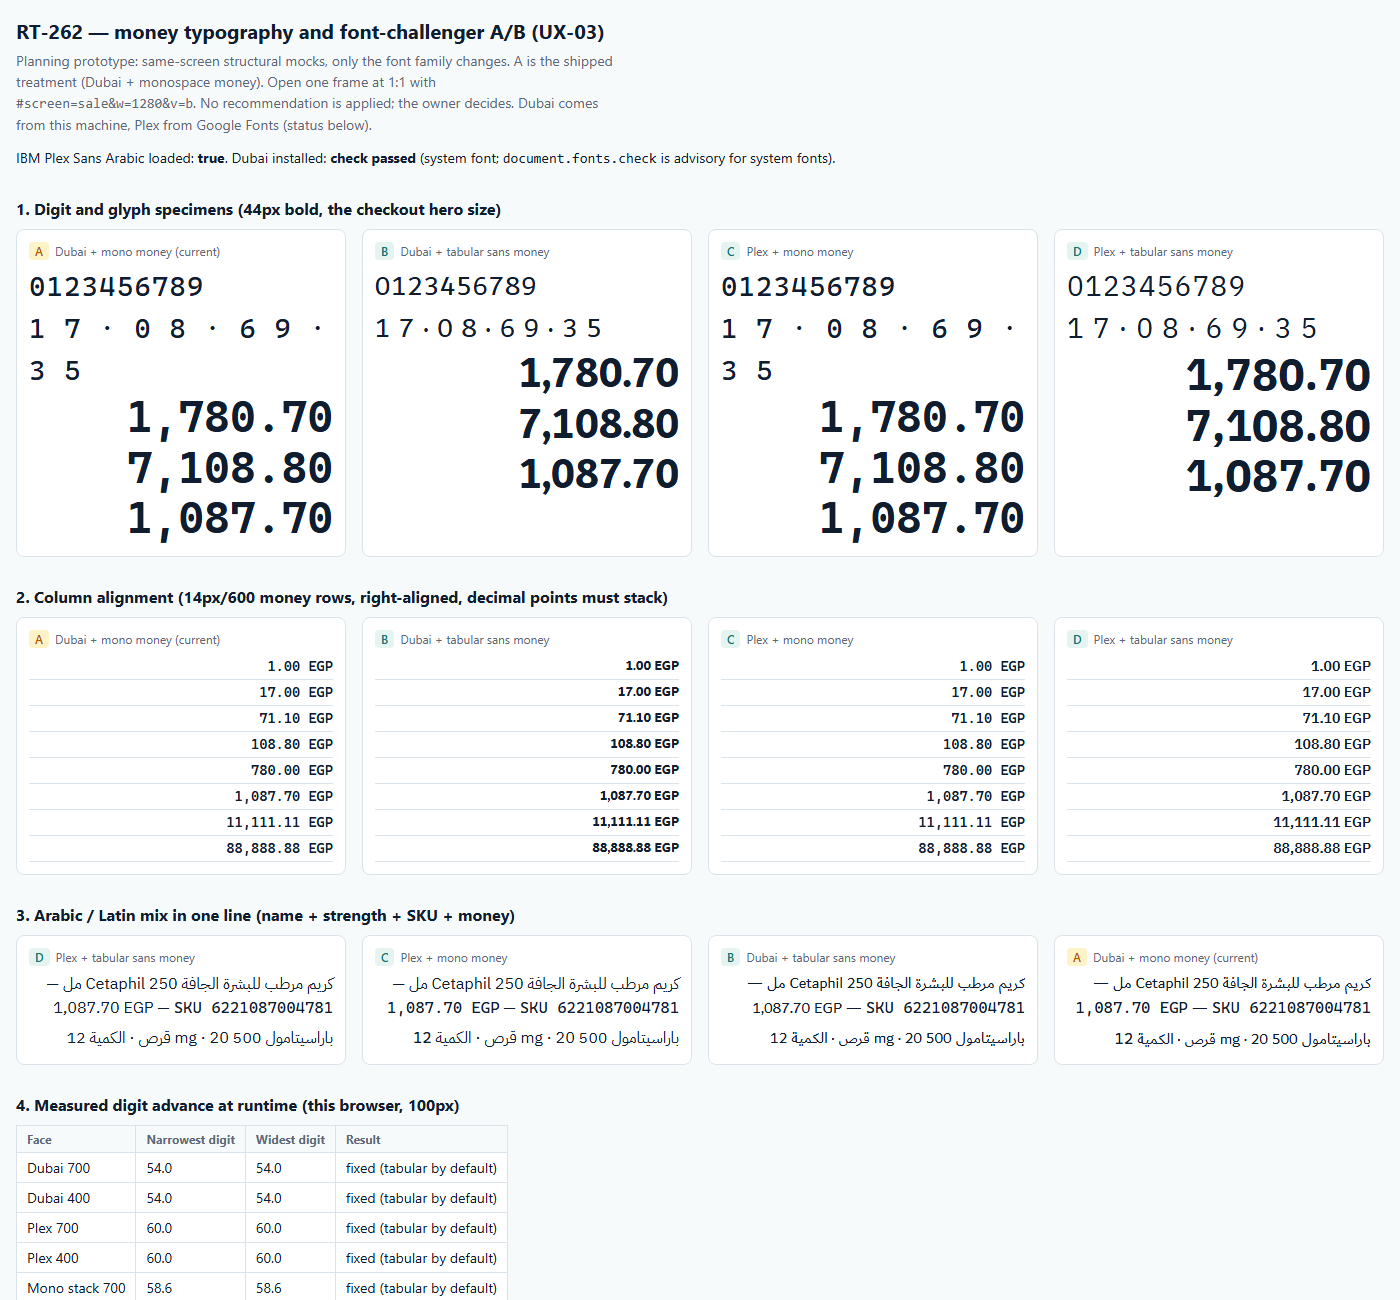
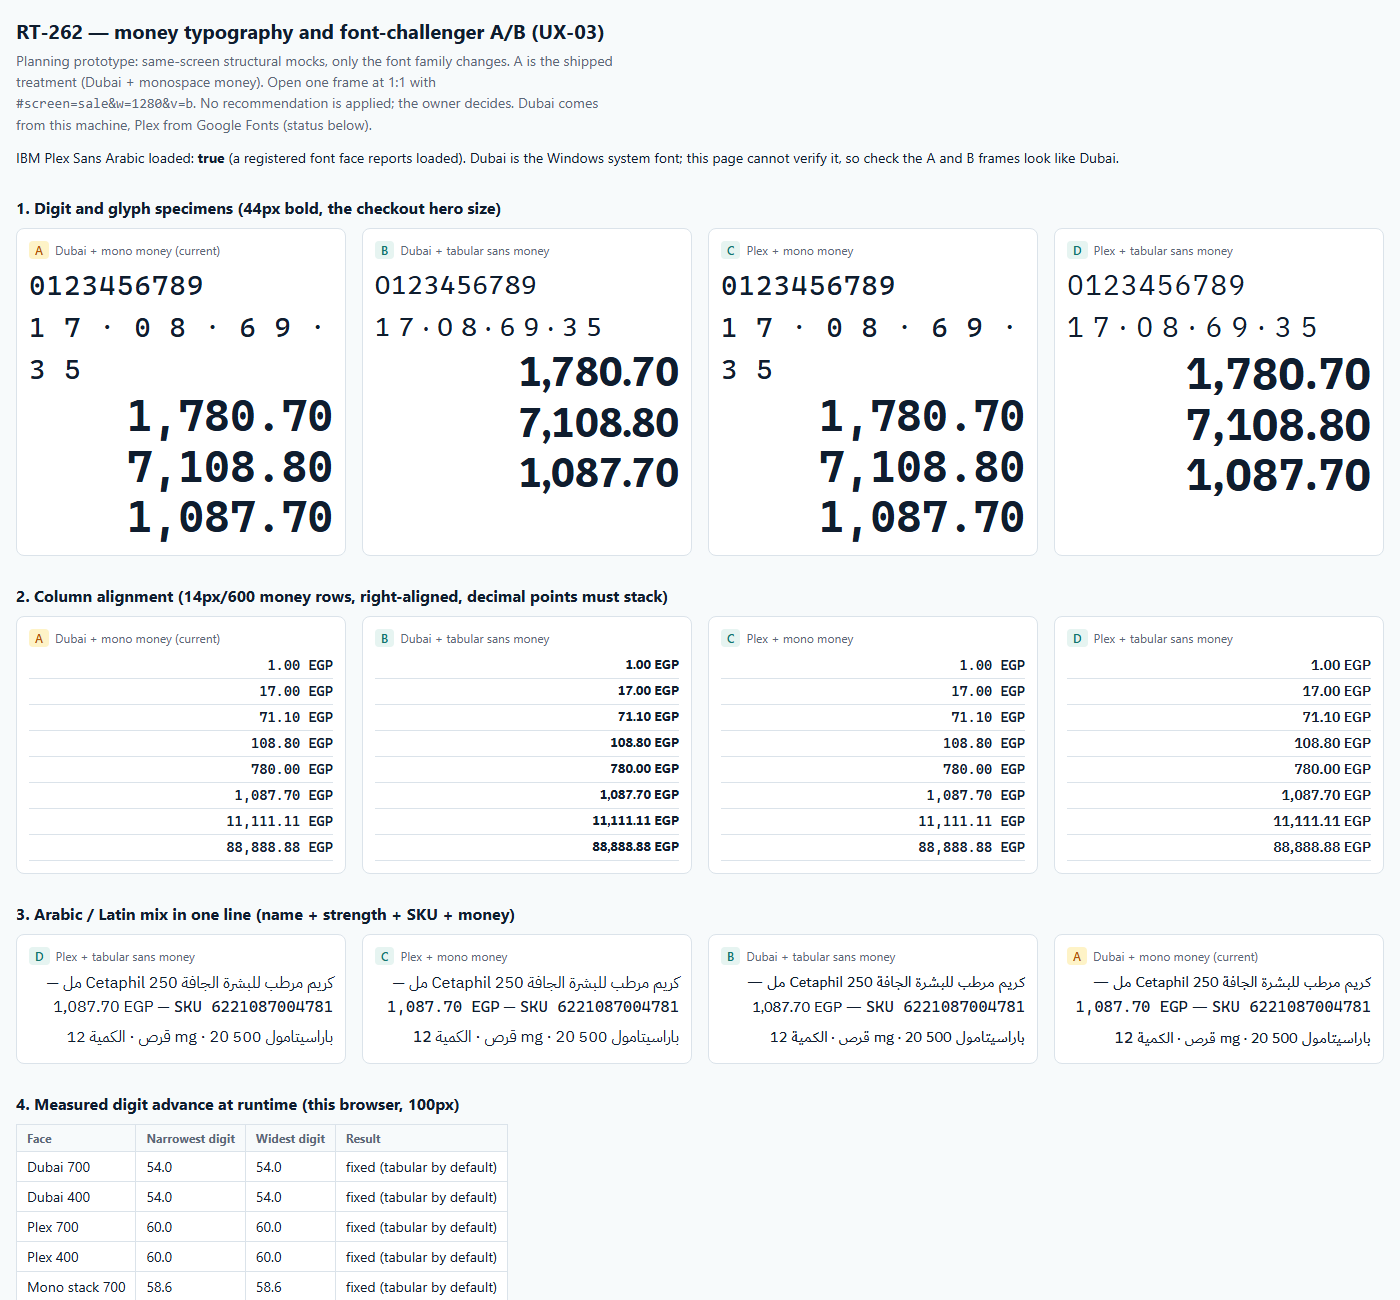
docs(RT-262): detect a really loaded Plex face and flag offline fallback
Frames C/D and the overview now check for a registered, loaded FontFace
(document.fonts.check is true for unknown families) and show a red banner
or a NOT LOADED marker when Plex fell back to Segoe UI.

diff --git a/docs/design/vnext/30-rt262-money-typography-ab.html b/docs/design/vnext/30-rt262-money-typography-ab.html
@@ -153,12 +153,30 @@ function frame(screen, w, v, scale) {
 }
 function el(h) { return h; }
 
+/* True only when a registered FontFace for Plex has really loaded (document.fonts.check is true for unknown families). */
+function plexLoaded() {
+  var ok = false;
+  document.fonts.forEach(function (f) { if (f.family.replace(/['"]/g, '') === 'IBM Plex Sans Arabic' && f.status === 'loaded') ok = true; });
+  return ok;
+}
+function loadPlex() {
+  return Promise.all([document.fonts.load("400 44px 'IBM Plex Sans Arabic'", '0123456789'), document.fonts.load("700 44px 'IBM Plex Sans Arabic'", '0123456789')]).catch(function () {});
+}
 var hash = {}; location.hash.replace(/^#/, '').split('&').forEach(function (p) { var kv = p.split('='); if (kv[0]) hash[kv[0]] = kv[1]; });
 var app = document.getElementById('app');
 
 if (hash.screen) {
   document.body.style.background = '#fff'; app.style.padding = '0'; app.style.maxWidth = 'none';
   app.innerHTML = '<div dir="rtl" lang="ar">' + frame(hash.screen, +hash.w || 1280, hash.v || 'a', 1) + '</div>';
+  if (hash.v === 'c' || hash.v === 'd') {
+    loadPlex().then(function () {
+      if (plexLoaded()) return;
+      var b = document.createElement('div');
+      b.textContent = 'IBM Plex Sans Arabic did NOT load (offline?). This frame shows the Segoe UI fallback, not Plex. Do not use it as evidence.';
+      b.style.cssText = 'position:fixed;top:0;left:0;right:0;z-index:9;padding:6px 12px;background:#b91c1c;color:#fff;font:600 13px Segoe UI,sans-serif';
+      document.body.appendChild(b);
+    });
+  }
 } else {
   var out = '<h1>RT-262 — money typography and font-challenger A/B (UX-03)</h1>' +
     '<p class="note">Planning prototype: same-screen structural mocks, only the font family changes. A is the shipped treatment (Dubai + monospace money). Open one frame at 1:1 with <code>#screen=sale&amp;w=1280&amp;v=b</code>. No recommendation is applied; the owner decides. Dubai comes from this machine, Plex from Google Fonts (status below).</p>' +
@@ -192,13 +210,13 @@ if (hash.screen) {
   out += '</tbody></table>';
   app.innerHTML = out;
 
-  var load = Promise.all([document.fonts.load("400 44px 'IBM Plex Sans Arabic'", '0123456789'), document.fonts.load("700 44px 'IBM Plex Sans Arabic'", '0123456789')]).then(function () {
-    var ok = document.fonts.check("700 44px 'IBM Plex Sans Arabic'");
-    document.getElementById('status').innerHTML = 'IBM Plex Sans Arabic loaded: <b>' + ok + '</b>. Dubai installed: <b>' + (document.fonts.check("700 44px Dubai") ? 'check passed' : 'not reported') + '</b> (system font; <code>document.fonts.check</code> is advisory for system fonts).';
+  var load = loadPlex().then(function () {
+    var ok = plexLoaded();
+    document.getElementById('status').innerHTML = ok ? 'IBM Plex Sans Arabic loaded: <b>true</b> (a registered font face reports loaded). Dubai is the Windows system font; this page cannot verify it, so check the A and B frames look like Dubai.' : '<b style="color:#b91c1c">IBM Plex Sans Arabic did NOT load (offline or blocked). Variants C and D and the Plex rows below show the Segoe UI fallback and are not valid evidence.</b>';
     var c = document.createElement('canvas').getContext('2d'), rows = '';
     [['Dubai 700', "700 100px Dubai"], ['Dubai 400', "400 100px Dubai"], ['Plex 700', "700 100px 'IBM Plex Sans Arabic'"], ['Plex 400', "400 100px 'IBM Plex Sans Arabic'"], ['Mono stack 700', "700 100px " + getComputedStyle(document.documentElement).getPropertyValue('--mono')]].forEach(function (f) {
       c.font = f[1]; var ws = '0123456789'.split('').map(function (d) { return c.measureText(d).width; });
-      rows += '<tr><td>' + f[0] + '</td><td>' + Math.min.apply(null, ws).toFixed(1) + '</td><td>' + Math.max.apply(null, ws).toFixed(1) + '</td><td>' + (Math.max.apply(null, ws) === Math.min.apply(null, ws) ? 'fixed (tabular by default)' : 'proportional') + '</td></tr>';
+      rows += '<tr><td>' + f[0] + (f[0].indexOf('Plex') === 0 && !ok ? ' (NOT LOADED, fallback metrics)' : '') + '</td><td>' + Math.min.apply(null, ws).toFixed(1) + '</td><td>' + Math.max.apply(null, ws).toFixed(1) + '</td><td>' + (Math.max.apply(null, ws) === Math.min.apply(null, ws) ? 'fixed (tabular by default)' : 'proportional') + '</td></tr>';
     });
     document.getElementById('measure').innerHTML = '<table class="t"><thead><tr><th>Face</th><th>Narrowest digit</th><th>Widest digit</th><th>Result</th></tr></thead><tbody>' + rows + '</tbody></table>';
   });
